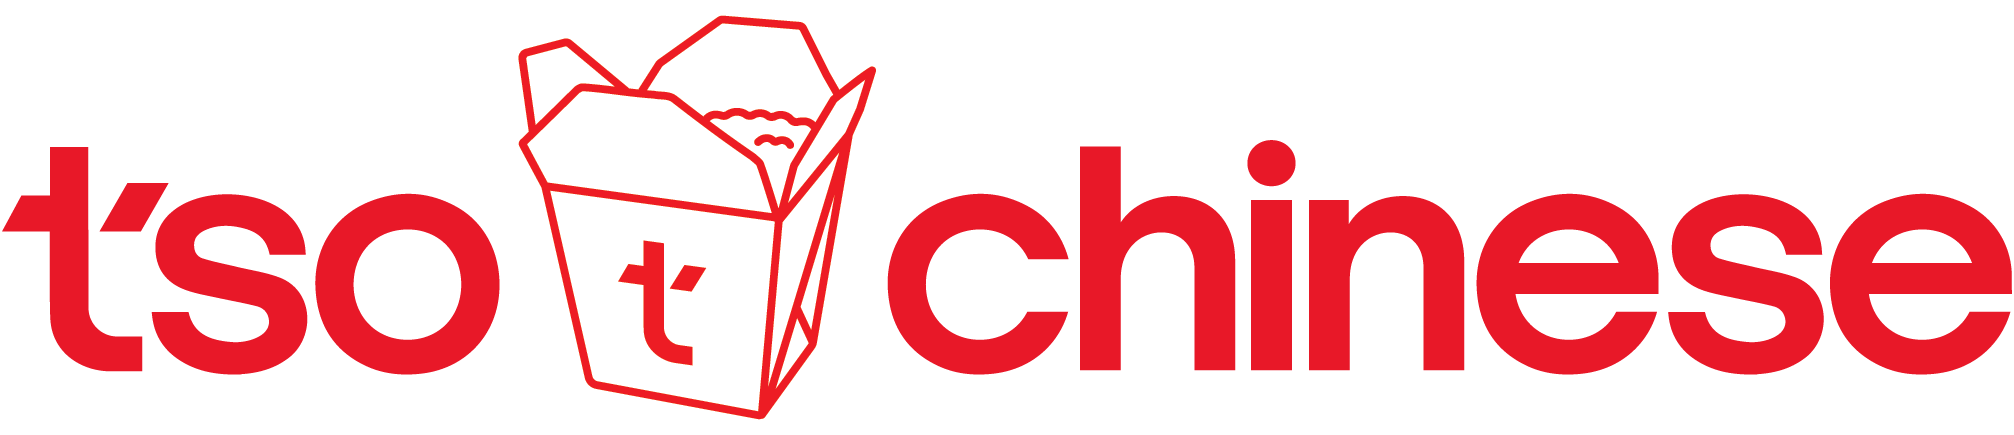
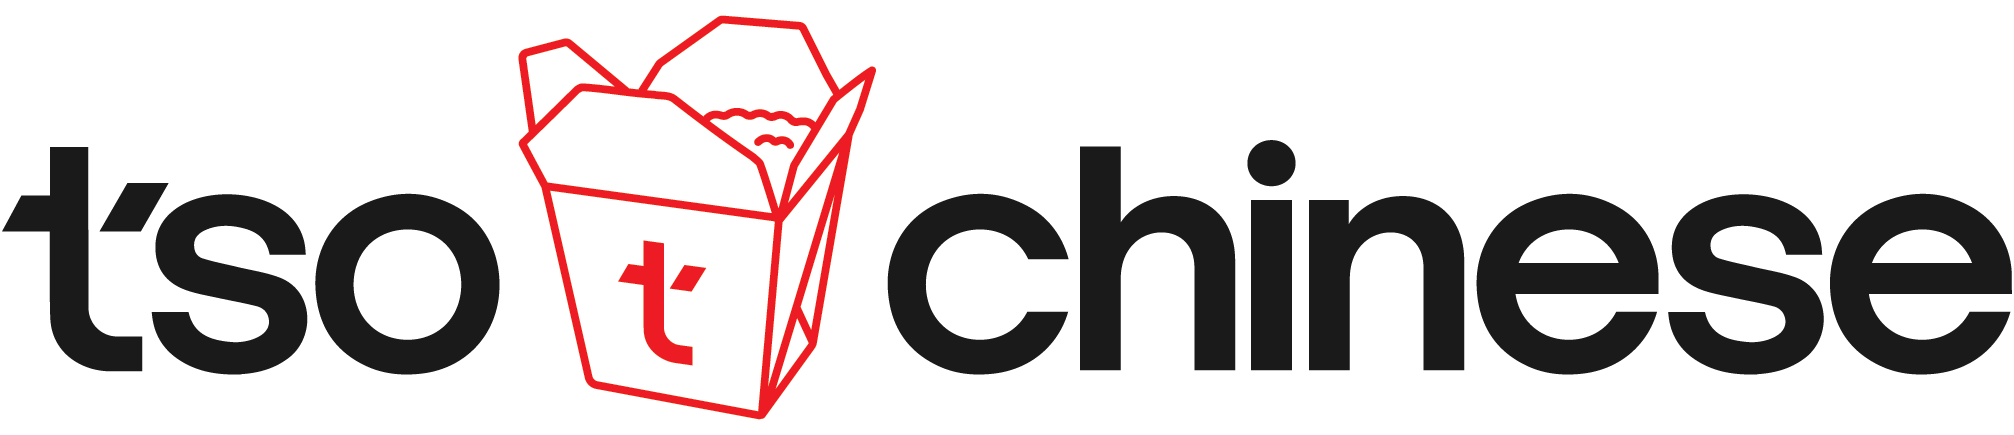
Sponsors: TSO's lettering in black, with the red takeout box (Jon's pick)

Changed region(s): [[0.431, 0.3287, 1.0, 0.8667], [0.0, 0.3287, 0.2463, 0.8667]]

diff --git a/TASKS.md b/TASKS.md
@@ -624,7 +624,7 @@
      - **Design Lab 44:** the *Design Lab 44 Productions* wordmark from the site's header, in black with the red 44, in place of a crop of their banner, photos and all. On the site it is live text in Wix's Lulo font, not an image file, so this is a 4× capture of the header with the white turned black. The Little EAST donors list keeps their full logo, a camera-shutter "DL" seal over the same wordmark, white on black.
      - **Figure 8 Coffee Purveyors:** the script *Figure 8* logo now in their site's header, in place of the round snake badge. It looks like a rebrand.
      - **Thoughtbarn:** their own SVG, black, in place of white on black.
-     - **TSO:** *Tso Chinese*'s current logo, the name either side of a takeout pail, in place of the red circle. **Worth a second look:** on their site the lettering is white over a photo, so here it is red, the pail's own red, and the pail is unchanged. Black lettering, or the white logo on a red panel, are the alternatives.
+     - **TSO:** *Tso Chinese*'s current logo, the name either side of a takeout pail, in place of the red circle. On their site the lettering is white over a photo, so here it is black, with the red-drawn pail unchanged: Jon's pick, over red lettering or the white logo on a red panel.
      - The names a screen reader gives now match the logos: *Design Lab 44 Productions* (was DesignLab44) and *Tso Chinese* (was TSO).
   9. [ ] **The auction donor fence banner:** the chair is finishing it (by 2026-10-26) for printing the following week. When it arrives, `CLAUDE` checks the donor list on `/sponsors` against it, and may reorder or regroup to match.
   3. [ ] **The Beat** link in Helpful Links opens one issue (2026-10-16). Each new issue needs the link updated, unless the school has a page that always shows the latest.
